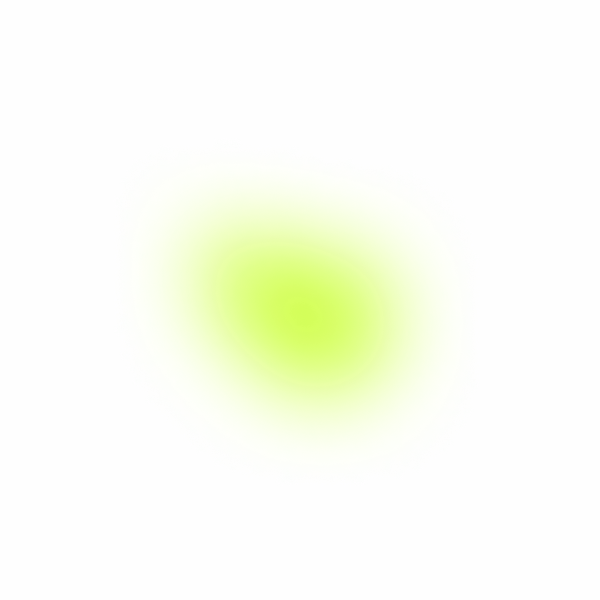
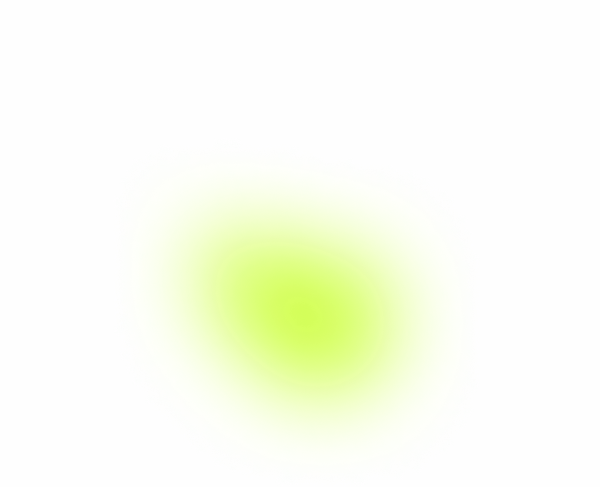
bg adjustments

Changed region(s): [[0.27, 0.308, 0.72, 0.8932]]

diff --git a/assets/scss/_base.scss b/assets/scss/_base.scss
@@ -226,6 +226,18 @@ li {
 
 
 //BACKGROUND
+.blobs{
+  width: 500px;
+  @media screen and (min-width: 1600px) {
+    width: 600px;
+  }
+  @media screen and (max-width: 1024px) and (min-width: 601px) {
+    width: 400px;
+  }
+  @media screen and (max-width: 600px) {
+    width: 300px;
+  }
+}
 .background{
   width: 100%;
   position: relative;
@@ -234,178 +246,152 @@ li {
     z-index: -1;
     .blob1{
       position: absolute;
-      top: -6vw;
+      top: 2vw;
       @media screen and (min-width: 1600px) {
-        width: 600px;
-        top: -4vw;
+        top: -2vw;
         left: 6vw;
       }
       @media screen and (max-width: 1024px) and (min-width: 601px) {
-        width: 400px;
-        top: 4vw;
+        top: 8vw;
         left: -4vw;
       }
       @media screen and (max-width: 600px) {
-        width: 300px;
-        top: 90vw;
+        top: 98vw;
         left: -8vw;
       }
     }
     .blob2{
       position: absolute;
       left: 80vw;
-      top: -4vw;
+      top: 4vw;
       @media screen and (min-width: 1600px) {
-        width: 600px;
-        top: 4vw;
+        top: 8vw;
         left: 74vw;
       }
       @media screen and (max-width: 1024px) and (min-width: 601px) {
-        width: 400px;
-        top: 16vw;
+        top: 24vw;
       }
       @media screen and (max-width: 600px) {
-        width: 300px;
-        top: -20vw;
-        left: 70vw;
+        top: -16vw;
+        left: 64vw;
       }
     }
     .blob3{
       position: absolute;
-      top: 24vw;
-      left: 8vw;
+      top: 32vw;
+      left: 16vw;
       @media screen and (min-width: 1600px) {
-        width: 600px;
-        top: 16vw;
+        top: 20vw;
         left: 22vw;
       }
       @media screen and (max-width: 1024px) and (min-width: 601px) {
-        width: 400px;
-        top: 54vw;
-        left: 6vw;
+        top: 52vw;
+        left: 12vw;
       }
       @media screen and (max-width: 600px) {
-        width: 300px;
         top: 150vw;
-        left: 0vw;
+        left: 16vw;
       }
     }
     .blob4{
       position: absolute;
-      top: 40vw;
-      left: 38vw;
+      top: 48vw;
+      left: 42vw;
       @media screen and (min-width: 1600px) {
-        width: 600px;
-        top: 34vw;
-        left: 42vw;
+        top: 40vw;
+        left: 40vw;
       }
       @media screen and (max-width: 1024px) and (min-width: 601px) {
-        width: 400px;
-        top: 80vw;
+        top: 92vw;
       }
       @media screen and (max-width: 600px) {
-        width: 300px;
-        top: 200vw;
-        left: 24vw;
+        top: 214vw;
+        left: 28vw;
       }
     }
     .blob5{
       position: absolute;
-      top: 78vw;
+      top: 86vw;
       left: -6vw;
       @media screen and (min-width: 1600px) {
-        width: 600px;
-        top: 60vw;
-        left: 2vw;
+        top: 65vw;
+        left: 0vw;
       }
       @media screen and (max-width: 1024px) and (min-width: 601px) {
-        width: 400px;
-        top: 130vw;
+        top: 138vw;
         right: 0;
         left: -14vw;
       }
       @media screen and (max-width: 600px) {
-        width: 300px;
-        top: 300vw;
+        top: 320vw;
         left: -24vw;
       }
     }
     .blob6{
       position: absolute;
-      top: 86vw;
+      top: 94vw;
       left: 90vw;
       @media screen and (min-width: 1600px) {
-        width: 600px;
         top: 72vw;
-        left: 92vw;
+        left: 90vw;
       }
       @media screen and (max-width: 1024px) and (min-width: 601px) {
-        width: 400px;
-        top: 146vw;
+        top: 152vw;
         left: 86vw;
       }
       @media screen and (max-width: 600px) {
-        width: 300px;
-        top: 400vw;
+        top: 416vw;
         left: 66vw;
       }
     }
     .blob7{
       position: absolute;
-      top: 112vw;
-      left: 22vw;
+      top: 124vw;
+      left: 24vw;
       @media screen and (min-width: 1600px) {
-        width: 600px;
-        top: 92vw;
+        top: 94vw;
         left: 28vw;
       }
       @media screen and (max-width: 1024px) and (min-width: 601px) {
-        width: 400px;
-        top: 186vw;
+        top: 196vw;
         left: 18vw;
       }
       @media screen and (max-width: 600px) {
-        width: 300px;
-        top: 510vw;
-        left: 4vw;
+        top: 520vw;
+        left: 0vw;
       }
     }
     .blob8{
       position: absolute;
-      top: 130vw;
+      top: 144vw;
       left: 56vw;
       @media screen and (min-width: 1600px) {
-        width: 600px;
-        top: 112vw;
-        left: 52vw;
+        top: 114vw;
+        left: 54vw;
       }
       @media screen and (max-width: 1024px) and (min-width: 601px) {
-        width: 400px;
-        top: 220vw;
+        top: 236vw;
         left: 54vw;
       }
       @media screen and (max-width: 600px) {
-        width: 300px;
-        top: 578vw;
+        top: 670vw;
         left: 32vw;
       }
     }
     .blob9{
       position: absolute;
-      top: 144vw;
+      top: 152vw;
       left: -14vw;
       @media screen and (min-width: 1600px) {
-        width: 460px;
-        top: 128vw;
+        top: 132vw;
         left: -12vw;
       }
       @media screen and (max-width: 1024px) and (min-width: 601px) {
-        width: 400px;
-        top: 256vw;
+        top: 268vw;
+        left: -18vw;
       }
       @media screen and (max-width: 600px) {
-        width: 300px;
-        top: 644vw;
+        top: 744vw;
         left: -30vw;
       }
     }

diff --git a/components/background.vue b/components/background.vue
@@ -1,15 +1,15 @@
 <template>
     <div class="background">
         <div class="background-container">
-            <img src="/blob1.png" class="blob1">
-            <img src="/blob2.png" class="blob2">
-            <img src="/blob3.png" class="blob3">
-            <img src="/blob4.png" class="blob4">
-            <img src="/blob5.png" class="blob5">
-            <img src="/blob6.png" class="blob6">
-            <img src="/blob1.png" class="blob7">
-            <img src="/blob8.png" class="blob8">
-            <img src="/blob9.png" class="blob9">
+            <img src="/blob1.png" class="blob1 blobs">
+            <img src="/blob2.png" class="blob2 blobs">
+            <img src="/blob3.png" class="blob3 blobs">
+            <img src="/blob4.png" class="blob4 blobs">
+            <img src="/blob5.png" class="blob5 blobs">
+            <img src="/blob6.png" class="blob6 blobs">
+            <img src="/blob1.png" class="blob7 blobs">
+            <img src="/blob8.png" class="blob8 blobs">
+            <img src="/blob9.png" class="blob9 blobs">
         </div>
     </div>
 </template>

diff --git a/assets/scss/_styleguide.scss b/assets/scss/_styleguide.scss
@@ -116,6 +116,12 @@ nav {
   flex-direction: row;
   justify-content: space-between;
   padding: $xxs 0;
+  width: 100vw;
+  position: relative;
+  align-self: center;
+  @media screen and (mIN-width: 1600px) {
+    width: 1920px;
+  }
   .nav-left{
     display: flex;
     align-items: center;
@@ -179,6 +185,9 @@ footer{
   width: 100vw;
   a{
     @include sub;
+  }
+  @media screen and (min-width: 1600px) {
+    width: 1920px;
   }
   @media screen and (max-width: 600px) {
     width: 90%;

diff --git a/layouts/default.vue b/layouts/default.vue
@@ -1,7 +1,7 @@
 <template>
-    <Navigation />
         <main>
             <Background />
+            <Navigation />
             <div class="content">
                 <slot />    
             </div>  

diff --git a/layouts/simple.vue b/layouts/simple.vue
@@ -1,6 +1,6 @@
 <template>
-    <Navigation />
         <main>
+            <Navigation />
             <Background />
             <div class="content simple-layout">
                 <slot />    
